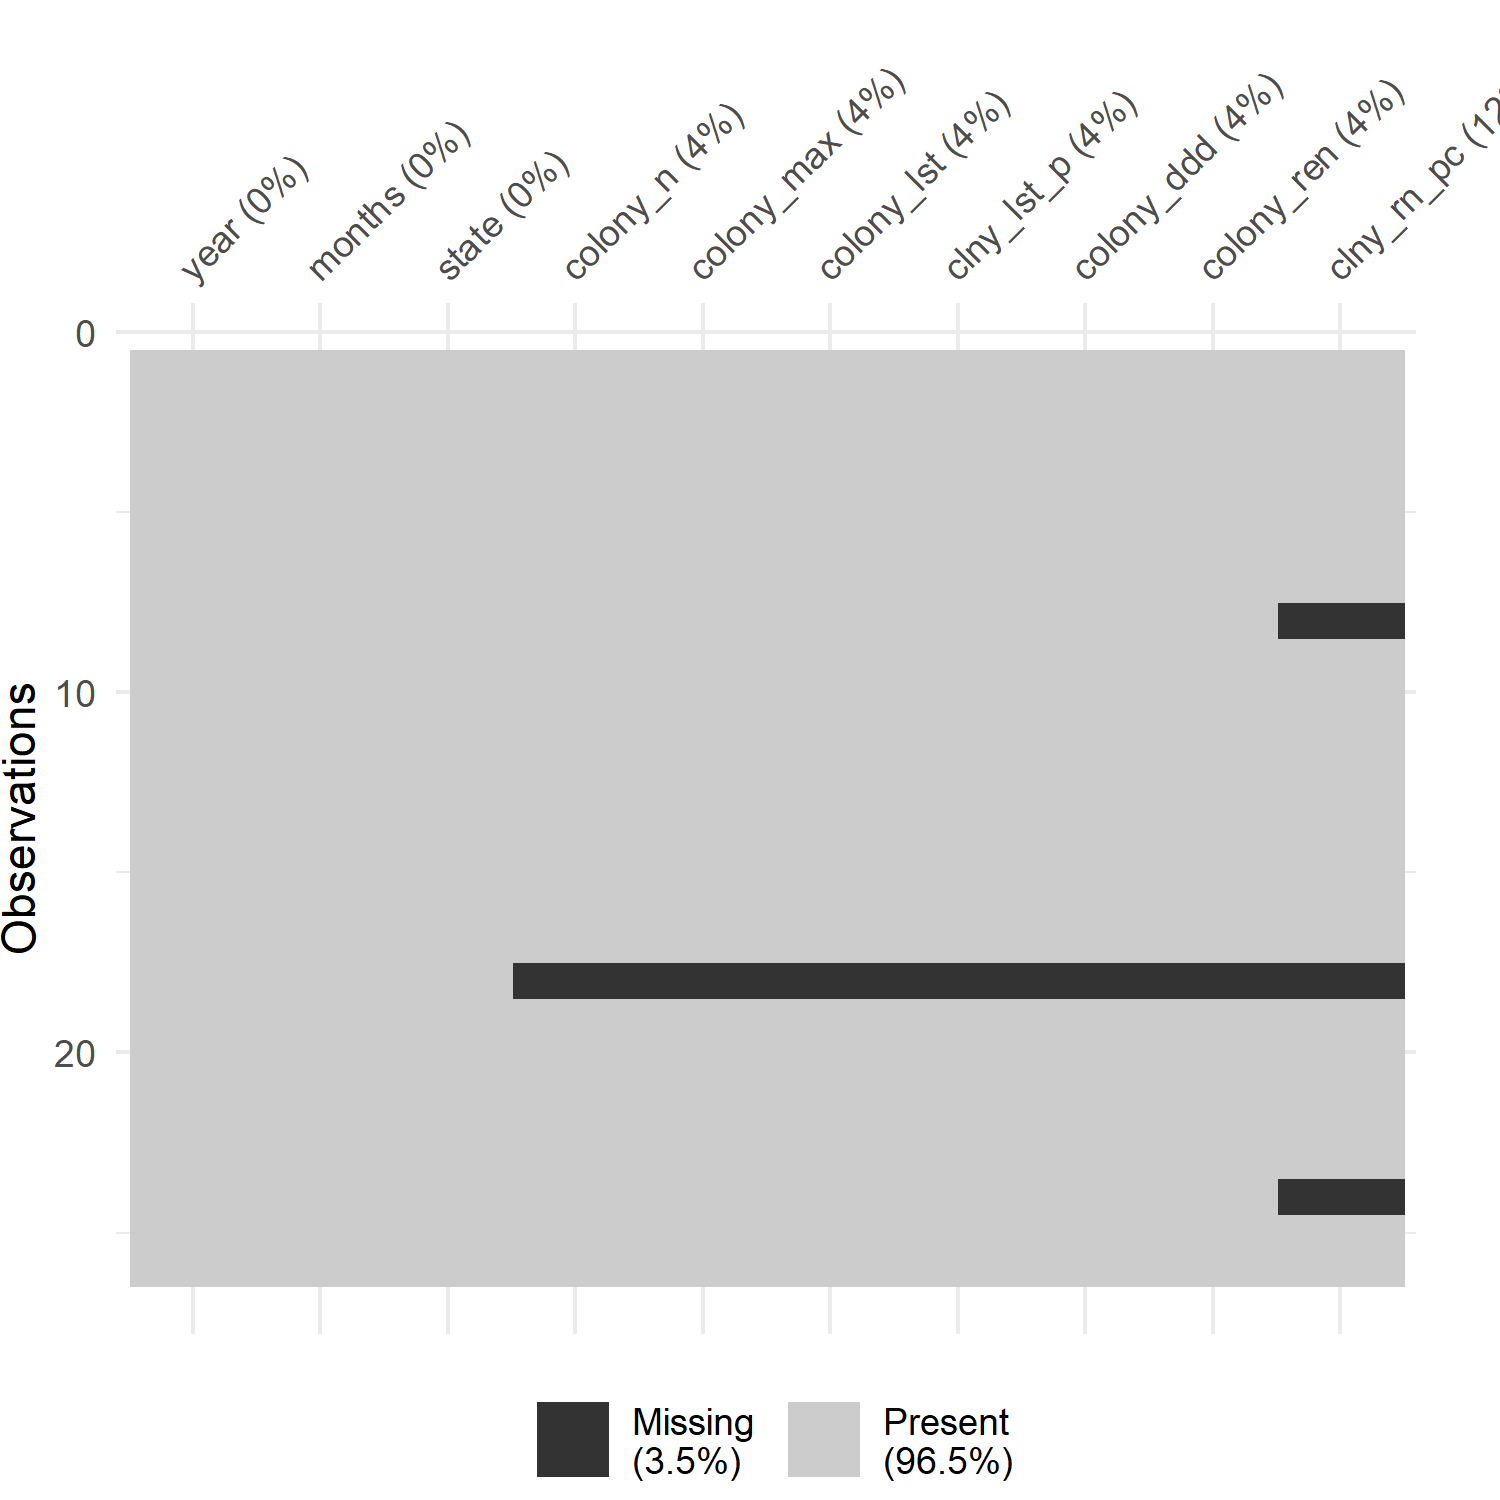
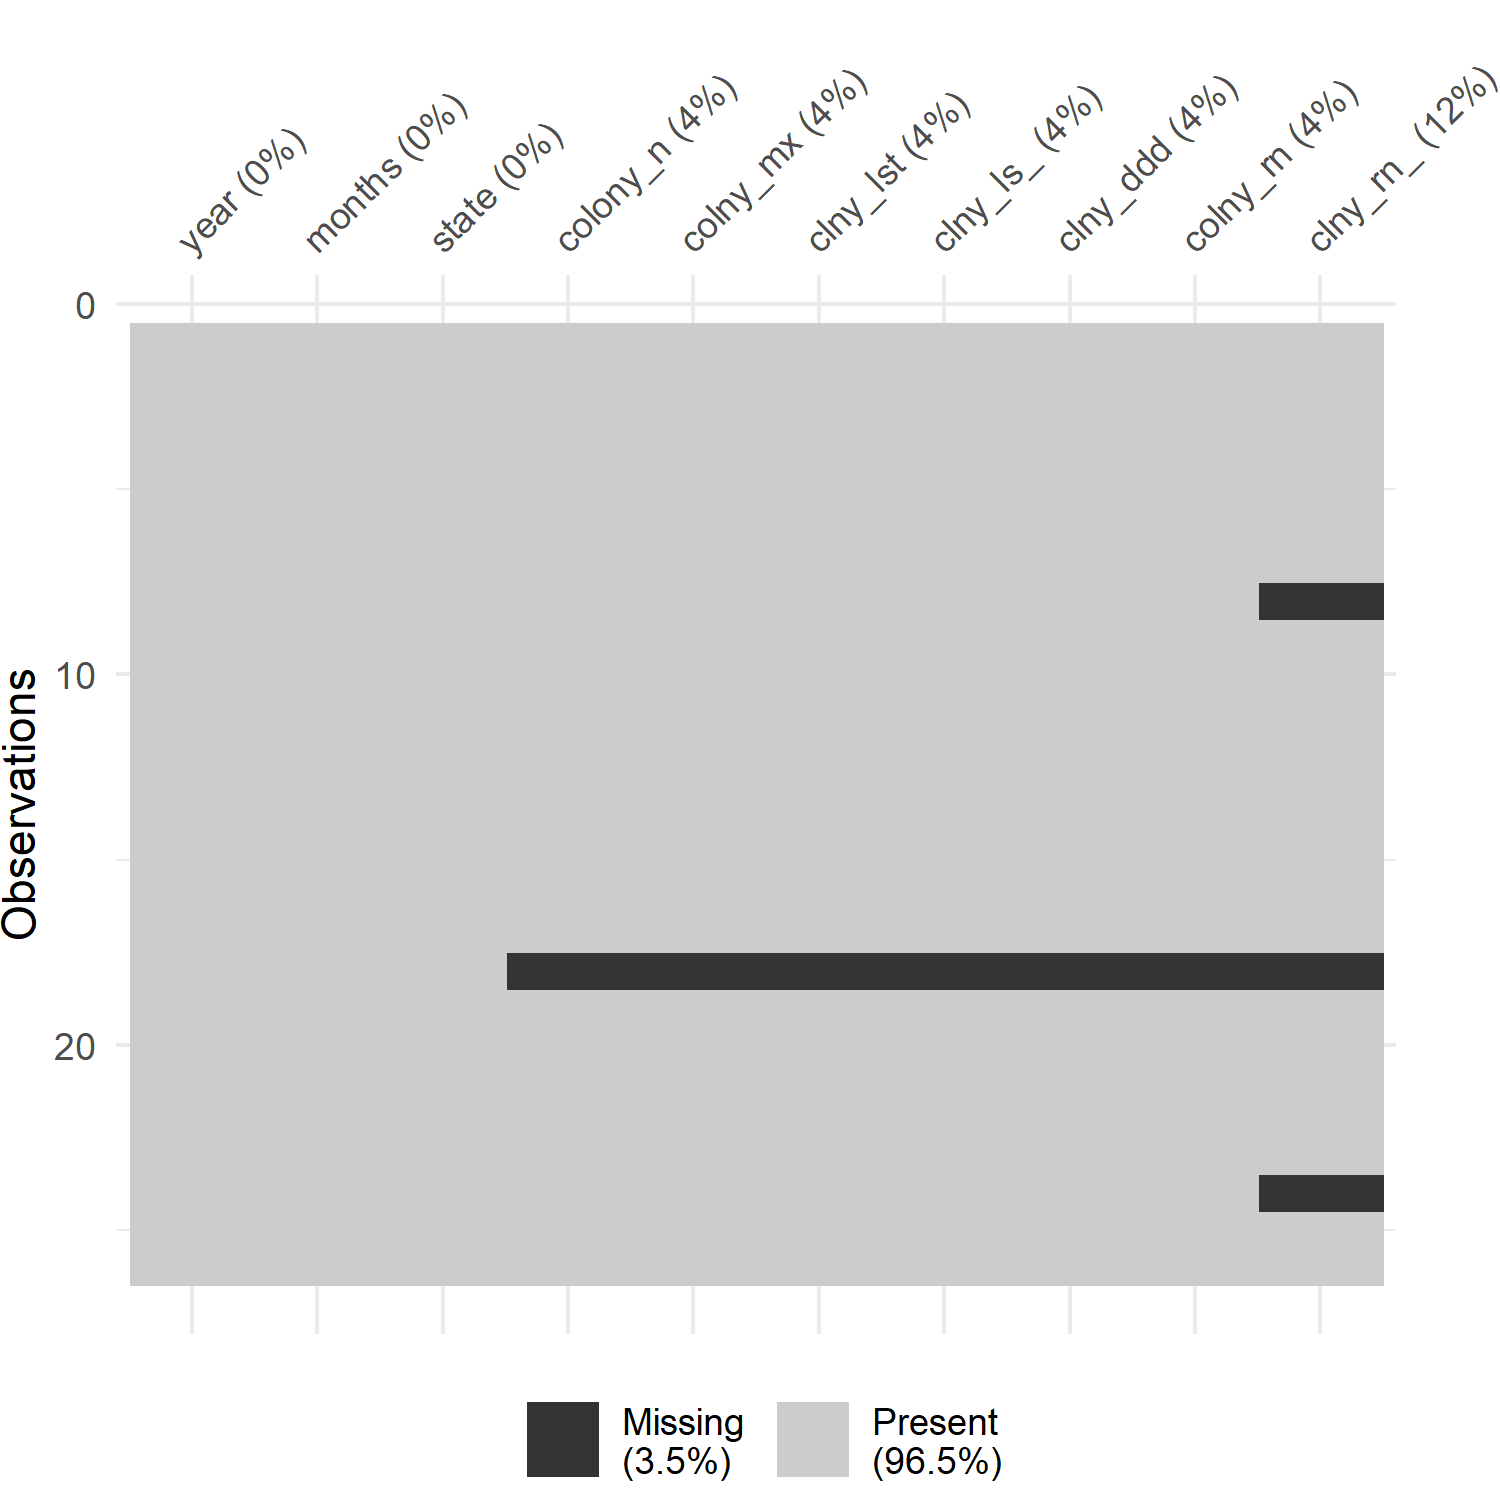
re-render

diff --git a/docs/bee-colony-losses.html b/docs/bee-colony-losses.html
@@ -461,9 +461,9 @@ Tip&nbsp;4.2: Column names in <code>vis_miss()</code>
 <div class="cell">
 <div class="sourceCode" id="cb5" data-source-line-numbers="nil" data-code-line-numbers="nil"><pre class="downlit sourceCode r code-with-copy"><code class="sourceCode R"><span><span class="kw"><a href="https://rdrr.io/r/base/library.html">library</a></span><span class="op">(</span><span class="va"><a href="https://ggplot2.tidyverse.org">ggplot2</a></span><span class="op">)</span></span>
 <span><span class="va">colony_AL</span> <span class="op">|&gt;</span></span>
-<span>  <span class="fu">visdat</span><span class="fu">::</span><span class="fu"><a href="https://docs.ropensci.org/visdat/reference/abbreviate_vars.html">abbreviate_vars</a></span><span class="op">(</span>min_length <span class="op">=</span> <span class="fl">10</span><span class="op">)</span> <span class="op">|&gt;</span></span>
+<span>  <span class="fu">visdat</span><span class="fu">::</span><span class="fu"><a href="https://docs.ropensci.org/visdat/reference/abbreviate_vars.html">abbreviate_vars</a></span><span class="op">(</span>min_length <span class="op">=</span> <span class="fl">8</span><span class="op">)</span> <span class="op">|&gt;</span></span>
 <span>  <span class="fu">visdat</span><span class="fu">::</span><span class="fu"><a href="https://docs.ropensci.org/visdat/reference/vis_miss.html">vis_miss</a></span><span class="op">(</span><span class="op">)</span> <span class="op">+</span></span>
-<span>  <span class="fu"><a href="https://ggplot2.tidyverse.org/reference/theme.html">theme</a></span><span class="op">(</span>plot.margin <span class="op">=</span> <span class="fu"><a href="https://ggplot2.tidyverse.org/reference/element.html">margin</a></span><span class="op">(</span>r <span class="op">=</span> <span class="fl">20</span><span class="op">)</span><span class="op">)</span></span></code><button title="Copy to Clipboard" class="code-copy-button"><i class="bi"></i></button></pre></div>
+<span>  <span class="fu"><a href="https://ggplot2.tidyverse.org/reference/theme.html">theme</a></span><span class="op">(</span>plot.margin <span class="op">=</span> <span class="fu"><a href="https://ggplot2.tidyverse.org/reference/element.html">margin</a></span><span class="op">(</span>r <span class="op">=</span> <span class="fl">25</span><span class="op">)</span><span class="op">)</span></span></code><button title="Copy to Clipboard" class="code-copy-button"><i class="bi"></i></button></pre></div>
 <div class="cell-output-display">
 <div id="fig-bees-vismiss-tip" class="quarto-float quarto-figure quarto-figure-center anchored">
 <figure class="quarto-float quarto-float-fig figure"><div aria-describedby="fig-bees-vismiss-tip-caption-0ceaefa1-69ba-4598-a22c-09a6ac19f8ca">
@@ -475,6 +475,11 @@ Tip&nbsp;4.2: Column names in <code>vis_miss()</code>
 </div>
 </div>
 </div>
+<p>{naniar} <span class="citation" data-cites="naniar">(<a href="references.html#ref-naniar" role="doc-biblioref">Tierney and Cook 2023</a>)</span></p>
+<p>if we inspect more closely, we see that . a similar pattern can be observed for all states</p>
+<p>when reporting happens</p>
+<p>Data unavailable for apr-jun 2019 - average, smoothing seasonal? maybe only look at january similar problem for end of 2021. could try to impute but so many values are missing try just jan - seasonal effects differ across the US https://canr.udel.edu/maarec/honey-bee-biology/seasonal-cycles-of-activities-in-colonies/</p>
+<p>september to dec –&gt; october december</p>
 <div id="tip-bees-missing" class="callout callout-style-default callout-tip callout-titled">
 <div class="callout-header d-flex align-content-center">
 <div class="callout-icon-container">
@@ -485,34 +490,31 @@ Tip&nbsp;4.3: Avoid missing patterns about missingness
 </div>
 </div>
 <div class="callout-body-container callout-body">
-<p>These tip - how is missing encoded, patterns in data</p>
+<p>These tip - how is missing encoded, patterns in data callout missing values assumes naniar::replace_with_na</p>
 </div>
 </div>
-<p>{naniar} <span class="citation" data-cites="naniar">(<a href="references.html#ref-naniar" role="doc-biblioref">Tierney and Cook 2023</a>)</span></p>
-<p>if we inspect more closely, we see that . a similar pattern can be observed for all states</p>
-<p>when reporting happens</p>
-<p>Data unavailable for apr-jun 2019 - average, smoothing seasonal? maybe only look at january similar problem for end of 2021. could try to impute but so many values are missing try just jan - seasonal effects differ across the US</p>
-<p>https://canr.udel.edu/maarec/honey-bee-biology/seasonal-cycles-of-activities-in-colonies/</p>
-<p>september to dec –&gt; october december</p>
-<p>callout missing values assumes naniar::replace_with_na</p>
 </section><section id="exploratory-sketches" class="level3" data-number="4.2.2"><h3 data-number="4.2.2" class="anchored" data-anchor-id="exploratory-sketches">
 <span class="header-section-number">4.2.2</span> Exploratory sketches</h3>
-<p>for each state, we want to visualise the average number of colonies each year. There are multiple ways we could do this: line charts or area charts are obvious … . Perhaps even a simple bar chart could be effective here.</p>
-<p>However, here we’ll look at a less common. essentially how many bees are contained within a particular area.</p>
+<p>For each state, let’s visualize the average number of colonies for each year. There are multiple ways we could do this: line charts or area charts are obvious first choices. Perhaps even a simple bar chart could be effective here. But let’s try to be a bit more creative, and a bit more artistic, in our choice of visualization. There are many ways we could represent the number of <em>things</em> (bee colonies) in each <em>combination of two variables</em> (state and year). We have data available for every combination of state and year, so let’s create a grid of states and years, as in <span class="quarto-unresolved-ref">?fig-bees-sketch-blank</span>.</p>
+<p><img src="images/sketch-bees-blank.png" id="fig-bees-sketch-blank" class="img-fluid quarto-figure quarto-figure-center anchored" alt="Initial sketch showing a grid of squares, with each square representing a combination of year and US state."> Now in each grid square, we’re simply trying to show the number of <em>things</em>. How might you do that? You could draw a circle, where the size of the circle shows the number of things. Or you could color each square, where the intensity of the color shows the number of things. Or you could draw lots of points, where the number of points shows the number of things as in <a href="#fig-bees-sketch" class="quarto-xref">Figure&nbsp;<span>4.5</span></a>.</p>
+<p>We might also choose to visualise only a subset of states (either focusing on states in a specific region, or simple states we’re most interested in).</p>
 <div id="fig-bees-sketch" class="quarto-float quarto-figure quarto-figure-center anchored" data-fig-align="center">
 <figure class="quarto-float quarto-float-fig figure"><div aria-describedby="fig-bees-sketch-caption-0ceaefa1-69ba-4598-a22c-09a6ac19f8ca">
 <img src="images/sketch-bees.png" class="img-fluid quarto-figure quarto-figure-center figure-img">
 </div>
 <figcaption class="quarto-float-caption-bottom quarto-float-caption quarto-float-fig" id="fig-bees-sketch-caption-0ceaefa1-69ba-4598-a22c-09a6ac19f8ca">
-Figure&nbsp;4.5: Initial sketch.
+Figure&nbsp;4.5: Initial sketch showing a grid of squares, with the number of dots representing the number of bee colonies in each year and US state.
 </figcaption></figure>
 </div>
 </section></section><section id="preparing-a-plot" class="level2" data-number="4.3"><h2 data-number="4.3" class="anchored" data-anchor-id="preparing-a-plot">
 <span class="header-section-number">4.3</span> Preparing a plot</h2>
-<p>we need to:</p>
+<p>To bring this plot to life, we need to complete several tasks:</p>
 <ul>
 <li>Calculate the average number of colonies per year, per state.</li>
+<li>Simulate x- and y- coordinates for the points that will represent the number of colonies.</li>
+<li>Plot the points.</li>
 </ul>
+<p>This is the type of chart that has a lot of (at times complex) preparation, but the plotting itself will be relatively straightforward.</p>
 <section id="data-wrangling" class="level3" data-number="4.3.1"><h3 data-number="4.3.1" class="anchored" data-anchor-id="data-wrangling">
 <span class="header-section-number">4.3.1</span> Data wrangling</h3>
 <p>Let’s start by selecting a subset of states to visualize:</p>
@@ -711,12 +713,10 @@ Figure&nbsp;4.7: Plot
 </div>
 </section></section><section id="reflection" class="level2" data-number="4.5"><h2 data-number="4.5" class="anchored" data-anchor-id="reflection">
 <span class="header-section-number">4.5</span> Reflection</h2>
-<ul>
-<li><p>wider range of states, difficult to see trend over time</p></li>
-<li><p>might imply area are same size - california is a big state - there’s just more room for bees.</p></li>
-<li><p>only looks at one variable - if colony numbers are lower but colony sizes are larger that might mean equal numbers of bees. but we don’t see that when we only look at the number of colonies.</p></li>
-<li><p>not enough contrast</p></li>
-</ul>
+<p>The bee-themed colors alongside the non-standard nature of this chart make it visually intriguing and fun. However, it takes a little bit more time to understand how to interpret the chart. This is a visualization that would work better in a setting where the author has time to explain how it works. For example, in a presentation or in an article with a <em>how to read this chart</em> explainer included. It would work less well in a standalone leaflet without an explanation where a reader might struggle to understand what is being shown. It’s more difficult to see the trend over time with type of chart. A simple line chart could show the same data in a more <em>standard</em>, easy-to-interpret way. However, line charts don’t catch attention in quite the same way. It all comes down to the purpose of the chart. Is the main aim to draw attention to important data on bee colonies, and show overall trends? Or is the main aim to communicate the colony size in each year, within some accuracy range? The answers to those questions will determine whether this is an appropriate chart type.</p>
+<p>This version of the chart shows only data for six states, even though we know from our exploratory analysis that data is available for (almost) all states. Some explanation as to why these states have been chosen could be added in the subtitle, or data for all states could be shown - although this would result in a very long chart! The visualization also assigns each state equal chart area - perhaps implying that each state has an equal geographic area which is of course untrue. The chart shows there are a lot of bees in California. California is also the third largest state for area - maybe there’s just more room for bees? Perhaps standardizing the data by state area (or state agricultural area) would provide an easier comparison between states.</p>
+<p>Another disadvantage of this chart is that it visualizes only one variable - the number of bee colonies. However, even when the number of colonies is lower, if the colony sizes are larger that might mean the numbers of bees isn’t changing very much. But we don’t see that when we only look at the number of colonies - we don’t get a full picture of the data by limiting the chart to only a single variable.</p>
+<p>Although this type of visualization has several disadvantages, and is far from perfect, hopefully it gives you an idea of how to think creatively about designing charts and how you might go about implementing them in R.</p>
 
 
 <div id="refs" class="references csl-bib-body hanging-indent" data-entry-spacing="0" role="list" style="display: none">
